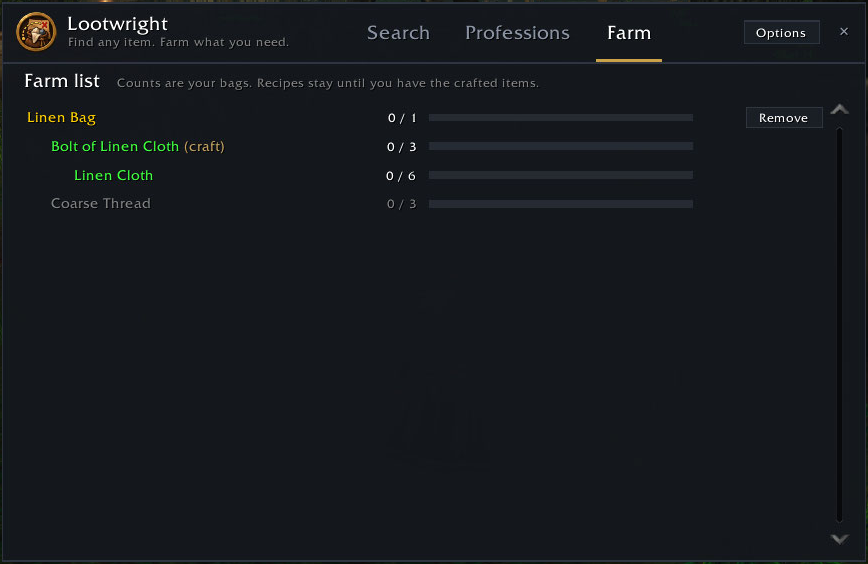
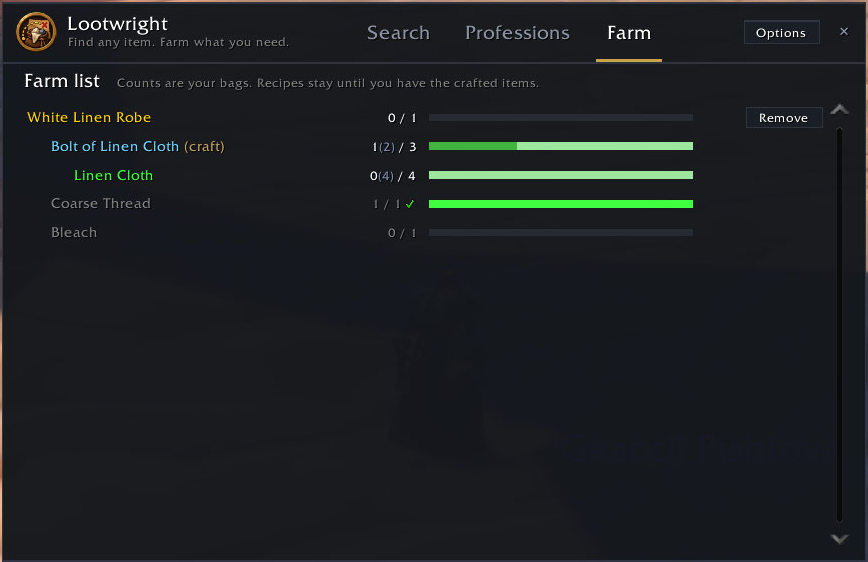
CurseForge gallery for 0.10.0: retaken Farm tab and tracker, welcome, share and craft-tag shots; page text; rates footer

diff --git a/docs/curseforge/page-preview.html b/docs/curseforge/page-preview.html
@@ -98,16 +98,23 @@ dd a { color: var(--green); }
 
       <h3>Farm a whole recipe</h3>
       <p>On the Professions tab, pick a recipe and press <strong>Farm recipe</strong>. Every material becomes a goal. Crafted materials open up into what they're made from (Bolt of Linen Cloth into Linen Cloth), vendor-only materials are greyed out, and you get a message as each material is ready, and when you can craft.</p>
-      <img src="screens/farm-tab.png" alt="The Farm tab: Linen Bag, with Bolt of Linen Cloth opened up into Linen Cloth, and Coarse Thread greyed out">
+      <img src="screens/farm-tab.png" alt="The Farm tab: White Linen Robe, with Bolt of Linen Cloth in blue (1 in bags, 2 more in the bank) opened up into Linen Cloth, Coarse Thread ready and Bleach">
       <p class="caption">A recipe on the Farm tab (in-game)</p>
 
       <h3>Map skulls and a waypoint arrow</h3>
       <p>Click a mob to mark all its spawns. Mobs you're farming get small grouped skulls with a count. Click any skull for an arrow and the distance to it.</p>
 
-      <h3>Farm tracker (experimental)</h3>
-      <p>A small panel that keeps your farm list on screen. Drag an item from your bags onto it to start farming it.</p>
-      <div class="small"><img src="screens/tracker.png" alt="The farm tracker showing the Linen Bag recipe group and its materials"></div>
+      <h3>Farm tracker</h3>
+      <p>A small panel that keeps your farm list on screen, bank counts included. Drag an item from your bags onto it to start farming it. Turn it on in the welcome window, with <code>/if mini</code> or in the options.</p>
+      <div class="small"><img src="screens/tracker.png" alt="The farm tracker showing the White Linen Robe recipe group with bank counts"></div>
       <p class="caption">The farm tracker (in-game)</p>
+
+      <h3>Help work out real Forever drop rates (opt-in)</h3>
+      <p>Most normal-mob rates today are rough Classic numbers. If you opt in, Lootwright counts what you loot, on your PC only, and once you've looted a mob 20 times its tooltip shows your own rate, and mobs that never drop the item go grey. Share your counts with <code>/if share</code> and they'll go into measured Forever rates for everyone. No names or positions are ever included.</p>
+      <img src="screens/share.png" alt="The Share your loot data window with the text to copy and the GitHub form address">
+      <p class="caption">Sharing your loot data (in-game)</p>
+      <img src="screens/welcome.png" alt="The welcome window with two options: show the farm tracker, help improve drop rates">
+      <p class="caption">The welcome window on first start (in-game)</p>
 
       <h3>Also</h3>
       <ul>

diff --git a/docs/changelog.html b/docs/changelog.html
@@ -65,6 +65,7 @@ code { font: 13px var(--mono); }
     </ul>
     <h3>Changed</h3>
     <ul>
+      <li>The Search tab's footer names all rate sources and explains "~".</li>
       <li>The farm tracker is no longer experimental. It stays off until you turn it on (welcome window, <code>/if mini</code> or Options).</li>
       <li>Recipe farming only breaks a crafted material into its own materials if your character has that profession.</li>
     </ul>

diff --git a/docs/curseforge/CURSEFORGE-PAGE.md b/docs/curseforge/CURSEFORGE-PAGE.md
@@ -73,7 +73,7 @@ The upload is one `.zip` containing the three folders `Lootwright`, `Lootwright_
 
 ## 5. Description (paste into the Markdown editor)
 
-Replace `BANNER_URL`, `SEARCH_IMG_URL`, `POPUP_IMG_URL`, `MAP_IMG_URL`, `FARMTAB_IMG_URL`, `TRACKER_IMG_URL` (upload the images to the project's Images tab first, then copy their links).
+Replace `BANNER_URL`, `SEARCH_IMG_URL`, `POPUP_IMG_URL`, `MAP_IMG_URL`, `FARMTAB_IMG_URL`, `TRACKER_IMG_URL` (upload the images to the project's Images tab first, then copy their links). The live page loads them from GitHub instead (`https://raw.githubusercontent.com/Simpeltronic/Lootwright/main/docs/curseforge/screens/<file>`), and the two images added in 0.10.0 already use those links.
 
 ```markdown
 ![Lootwright](BANNER_URL)
@@ -89,37 +89,47 @@ Made for **WoW Forever**, with crafting materials front and centre.
 ## Features
 
 ### Find where anything drops
-Search by name, or shift-click any item. See every mob that drops it with level (coloured by difficulty), rank, zone and drop rate, best rates first and your current zone on top. Filter by Reagents, Quest items, Gear, Other or Dungeon boss drops. Reagents show how many recipes use them.
+Search by name, or shift-click any item. See every mob that drops it with level (coloured by difficulty), rank, zone and drop rate, best rates first and your current zone on top. Filter by Reagents, Quest items, Gear, Other or Dungeon boss drops. Reagents show how many recipes use them, and items a recipe makes get a small blue **craft** tag.
 
 ![The Search tab](SEARCH_IMG_URL)
 
 ### Farm with goals
-Press **Farm…** on an item and choose how many you want, like splitting a stack: type a number, use the mouse wheel, or pick +10, +20 or a stack. Mobs that drop it get a "Farm:" line on their tooltip and a skull on the world map. When your bags hold enough, it leaves the list by itself.
+Press **Farm…** on an item and choose how many you want, like splitting a stack: type a number, use the mouse wheel, or pick +10, +20 or a stack. Mobs that drop it get a "Farm:" line on their tooltip and a skull on the world map. When your bags hold enough, it leaves the list by itself. For something your profession can craft, **Farm…** adds its recipe instead, so you farm the materials.
 
 ![Choosing how many to farm](POPUP_IMG_URL)
 
 ![Farm skulls on the world map](MAP_IMG_URL)
 
 ### Farm a whole recipe
-On the Professions tab, pick a recipe and press **Farm recipe**. Every material becomes a goal. Crafted materials open up into what they're made from (Bolt of Linen Cloth into Linen Cloth), vendor-only materials are greyed out, and you get a message as each material is ready, and when you can craft.
+On the Professions tab, pick a recipe and press **Farm recipe**. Every material becomes a goal. Crafted materials (in blue) open up into what they're made from if you have the profession (Bolt of Linen Cloth into Linen Cloth), vendor-only materials are greyed out, and you get a message as each material is ready, and when you can craft. Items in your bank show in the count, `1(2) / 3`, with a lighter green on the bar.
 
 ![A recipe on the Farm tab](FARMTAB_IMG_URL)
 
 ### Map skulls and a waypoint arrow
 Click a mob to mark all its spawns. Mobs you're farming get small grouped skulls with a count. Click any skull for an arrow and the distance to it.
 
-### Farm tracker (experimental)
-A small panel that keeps your farm list on screen. Drag an item from your bags onto it to start farming it.
+### Farm tracker
+A small panel that keeps your farm list on screen, bank counts included. Drag an item from your bags onto it to start farming it. Turn it on in the welcome window, with `/if mini` or in the options.
 
 ![The farm tracker](TRACKER_IMG_URL)
+
+### Help work out real Forever drop rates (opt-in)
+Most normal-mob rates today are rough Classic numbers. If you opt in, Lootwright counts what you loot, on your PC only, and once you've looted a mob 20 times its tooltip shows your own rate, and mobs that never drop the item go grey. Share your counts with `/if share` (copy, paste into a GitHub form) and they'll go into measured Forever rates for everyone. No names or positions are ever included.
+
+![Sharing your loot data](https://raw.githubusercontent.com/Simpeltronic/Lootwright/main/docs/curseforge/screens/share.png)
 
 ### Also
 - **Every recipe** for every profession, including ones you haven't learned, with how to learn them.
 - **Honest numbers:** dungeon boss rates measured in Forever with their kill counts. Rates from very few kills are marked, and items with no known rate say so.
+- **Many more mobs per item:** cloth and other common drops list every mob, not just the top 200.
 - **Favourites and recent items** at your fingertips.
 - **Minimap button** that works with minimap button collectors.
 
 ## Quick start
+
+The first time you log in, a short welcome window lets you turn on the farm tracker and loot counting (`/if welcome` shows it again).
+
+![The welcome window](https://raw.githubusercontent.com/Simpeltronic/Lootwright/main/docs/curseforge/screens/welcome.png)
 
 Type `/if` (or `/lootwright`), or click the minimap button. `/if options` opens the settings, `/if mini` toggles the farm tracker, `/if help` lists every command.
 
@@ -195,7 +205,7 @@ Privacy note: the person tipping sees your Ko-fi page name. Depending on PayPal 
 
 ## 8. Screenshot shot list (Gallery)
 
-CurseForge wants real in-game screenshots. All eight are in `screens/`, real and ready to upload. Settings for every shot: 1920 × 1080 or larger, default UI scale, daytime outdoor zone, PNG, other addons' frames hidden where they'd clutter, crop with a little game world around the subject.
+CurseForge wants real in-game screenshots. All eleven are in `screens/`, real and ready to upload. Settings for every shot: 1920 × 1080 or larger, default UI scale, daytime outdoor zone, PNG, other addons' frames hidden where they'd clutter, crop with a little game world around the subject.
 
 | # | Shot | Caption | Status |
 |---|---|---|---|
@@ -204,9 +214,13 @@ CurseForge wants real in-game screenshots. All eight are in `screens/`, real and
 | 3 | The amount popup open over the Farm button | Choose how many you want | `screens/amount-popup.png` |
 | 4 | A mob hovered with the green "Farm: … (have 12/40)" line | Mobs you need are marked on their tooltip | `screens/mob-tooltip.png` |
 | 5 | Professions tab with the recipe list | Every recipe, and what it takes to make it | `screens/professions.png` (no recipe selected; a retake with one selected would show its materials) |
-| 6 | Farm tab with a recipe group, a crafted material opened up, a check mark | Farm a whole recipe, step by step | `screens/farm-tab.png` |
+| 6 | Farm tab with a recipe group, a crafted material opened up, a check mark | Farm a whole recipe, step by step | `screens/farm-tab.png` (retaken for 0.10.0: blue crafted material, bank count `1(2) / 3`) |
 | 7 | The waypoint arrow on screen while walking to a spawn | Click a skull for an arrow to the spawn | `screens/arrow.png` |
-| 8 | The farm tracker next to the quest tracker | Keep your farm list on screen | `screens/tracker.png` |
+| 8 | The farm tracker next to the quest tracker | Keep your farm list on screen | `screens/tracker.png` (retaken for 0.10.0: blue crafted rows, bank counts) |
+| 9 | The welcome window with both options | Turn on what you want the first time you play | `screens/welcome.png` (0.10.0) |
+| 10 | The Search list with blue craft tags | See at a glance what you can craft | `screens/search-craft.png` (0.10.0) |
+| 11 | The share window | Share your loot to improve drop rates | `screens/share.png` (0.10.0) |
+| - | A mob row tooltip with "You: 9 of 40 corpses" | Your own drop rate after 20 kills | not taken yet (needs 20 corpses of one mob) |
 
 Use shot 1 as the first Gallery image: it's what shows in search results.
 

diff --git a/CHANGELOG.md b/CHANGELOG.md
@@ -19,6 +19,7 @@ Versions follow the rules in `CLAUDE.md` ("Versions and changelog"). Newest firs
 - **Craft tag in the Search list:** a small blue "craft" next to items a recipe makes, and a "Crafted: Tailoring (...)" tooltip line.
 
 ### Changed
+- The Search tab's footer names all rate sources and explains "~".
 - The farm tracker is no longer experimental. It stays off until you turn it on (welcome window, `/if mini` or Options).
 - Recipe farming only breaks a crafted material into its own materials if your character has that profession.
 
